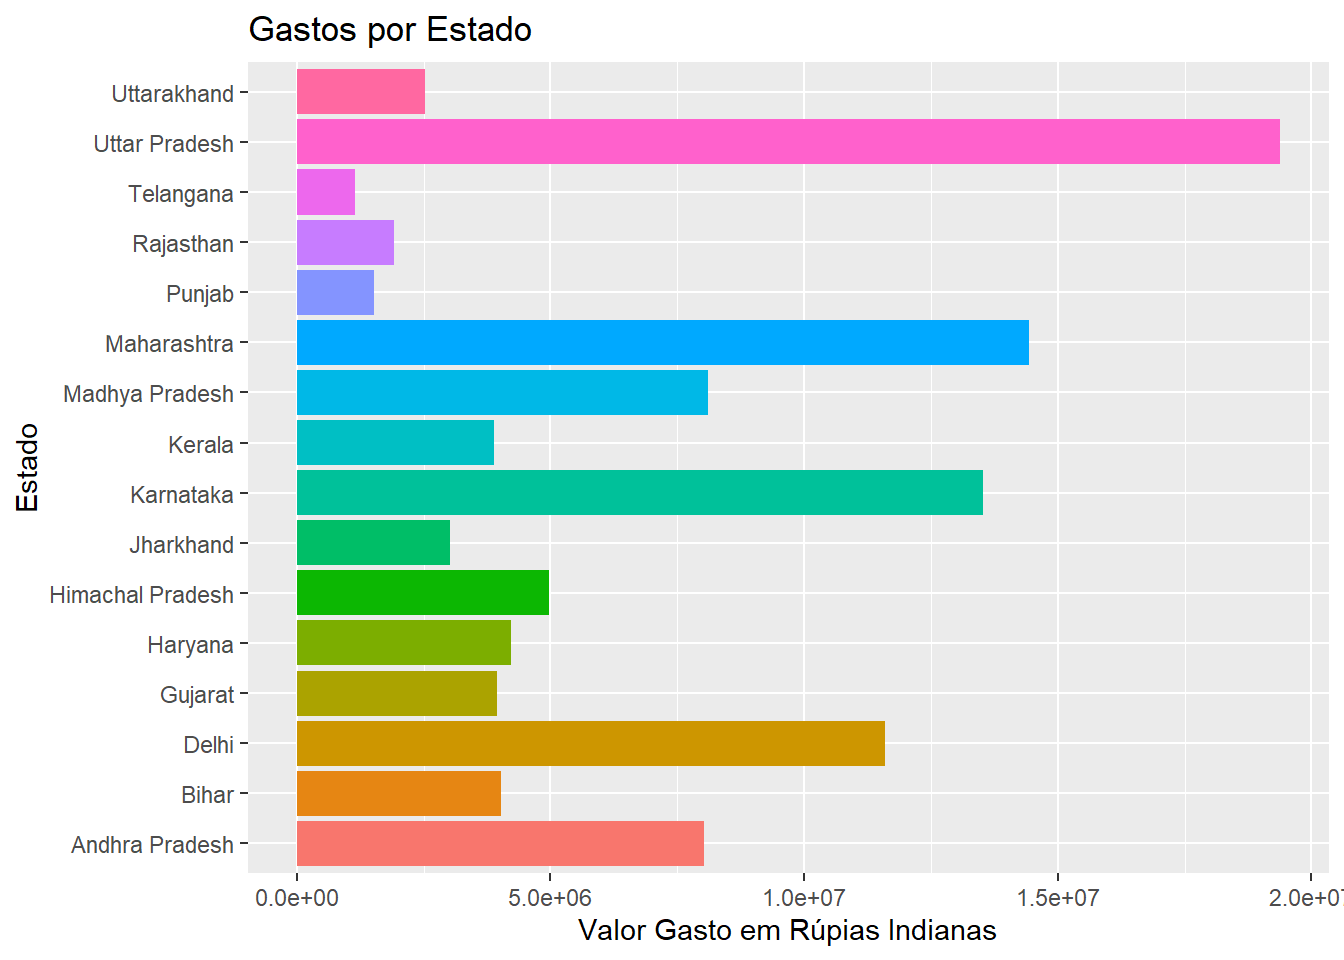
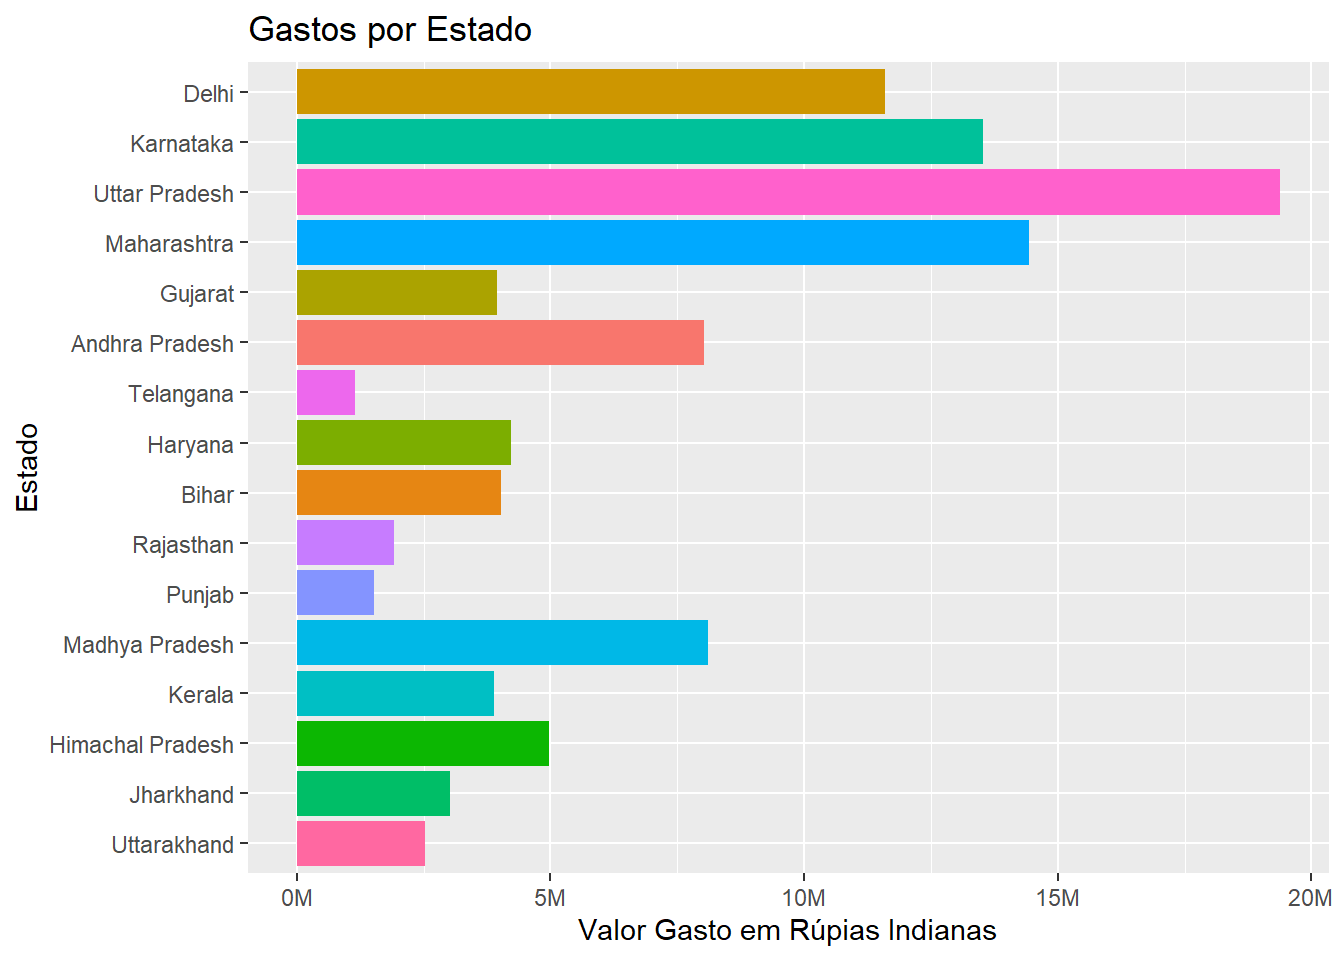
add a link to inct

diff --git a/docs/posts/20231114tidytuesday.html b/docs/posts/20231114tidytuesday.html
@@ -149,7 +149,8 @@ pre > code.sourceCode > span > a:first-child::before { text-decoration: underlin
     <h2 id="toc-title">Nesta página</h2>
    
   <ul>
-  <li><a href="#distribuição-de-idades-dos-clientes-por-gênero" id="toc-distribuição-de-idades-dos-clientes-por-gênero" class="nav-link active" data-scroll-target="#distribuição-de-idades-dos-clientes-por-gênero">Distribuição de Idades dos Clientes por gênero:</a></li>
+  <li><a href="#carregando-e-olhando-os-dados" id="toc-carregando-e-olhando-os-dados" class="nav-link active" data-scroll-target="#carregando-e-olhando-os-dados">Carregando e olhando os dados</a></li>
+  <li><a href="#distribuição-de-idades-dos-clientes-por-gênero" id="toc-distribuição-de-idades-dos-clientes-por-gênero" class="nav-link" data-scroll-target="#distribuição-de-idades-dos-clientes-por-gênero">Distribuição de Idades dos Clientes por gênero:</a></li>
   <li><a href="#distribuição-de-gastos-por-categoria-de-produto" id="toc-distribuição-de-gastos-por-categoria-de-produto" class="nav-link" data-scroll-target="#distribuição-de-gastos-por-categoria-de-produto">Distribuição de Gastos por Categoria de Produto:</a></li>
   <li><a href="#número-de-pedidos-por-zona" id="toc-número-de-pedidos-por-zona" class="nav-link" data-scroll-target="#número-de-pedidos-por-zona">Número de Pedidos por Zona:</a></li>
   <li><a href="#gastos-por-estado" id="toc-gastos-por-estado" class="nav-link" data-scroll-target="#gastos-por-estado">Gastos por Estado:</a></li>
@@ -200,6 +201,8 @@ pre > code.sourceCode > span > a:first-child::before { text-decoration: underlin
 
 </header>
 
+<section id="carregando-e-olhando-os-dados" class="level1">
+<h1>Carregando e olhando os dados</h1>
 <div class="cell">
 <details>
 <summary>Código</summary>
@@ -231,6 +234,7 @@ $ Orders           &lt;dbl&gt; 1, 3, 3, 2, 2, 1, 4, 1, 2, 4, 1, 2, 2, 4, 3, 2, 3
 $ Amount           &lt;dbl&gt; 23952.00, 23934.00, 23924.00, 23912.00, 23877.00, 238…</code></pre>
 </div>
 </div>
+</section>
 <section id="distribuição-de-idades-dos-clientes-por-gênero" class="level1">
 <h1>Distribuição de Idades dos Clientes por gênero:</h1>
 <div class="cell">
@@ -292,13 +296,14 @@ $ Amount           &lt;dbl&gt; 23952.00, 23934.00, 23924.00, 23912.00, 23877.00,
 <div class="cell">
 <details>
 <summary>Código</summary>
-<div class="sourceCode cell-code" id="cb6"><pre class="sourceCode r code-with-copy"><code class="sourceCode r"><span id="cb6-1"><a href="#cb6-1" aria-hidden="true" tabindex="-1"></a><span class="fu">ggplot</span>(data, <span class="fu">aes</span>(<span class="at">x =</span> State, <span class="at">y =</span> Amount, <span class="at">fill =</span> State)) <span class="sc">+</span></span>
-<span id="cb6-2"><a href="#cb6-2" aria-hidden="true" tabindex="-1"></a>  <span class="fu">geom_bar</span>(<span class="at">stat =</span> <span class="st">"identity"</span>, <span class="at">legend =</span> <span class="cn">FALSE</span>) <span class="sc">+</span></span>
+<div class="sourceCode cell-code" id="cb6"><pre class="sourceCode r code-with-copy"><code class="sourceCode r"><span id="cb6-1"><a href="#cb6-1" aria-hidden="true" tabindex="-1"></a><span class="fu">ggplot</span>(data, <span class="fu">aes</span>(<span class="at">x =</span> forcats<span class="sc">::</span><span class="fu">fct_reorder</span>(State, Amount, <span class="at">.na_rm =</span> <span class="cn">TRUE</span>), <span class="at">y =</span> Amount, <span class="at">fill =</span> State)) <span class="sc">+</span></span>
+<span id="cb6-2"><a href="#cb6-2" aria-hidden="true" tabindex="-1"></a>  <span class="fu">geom_bar</span>(<span class="at">stat =</span> <span class="st">"identity"</span>) <span class="sc">+</span></span>
 <span id="cb6-3"><a href="#cb6-3" aria-hidden="true" tabindex="-1"></a>  <span class="fu">labs</span>(<span class="at">title =</span> <span class="st">"Gastos por Estado"</span>,</span>
 <span id="cb6-4"><a href="#cb6-4" aria-hidden="true" tabindex="-1"></a>       <span class="at">x =</span> <span class="st">"Estado"</span>,</span>
 <span id="cb6-5"><a href="#cb6-5" aria-hidden="true" tabindex="-1"></a>       <span class="at">y =</span> <span class="st">"Valor Gasto em Rúpias Indianas"</span>) <span class="sc">+</span></span>
 <span id="cb6-6"><a href="#cb6-6" aria-hidden="true" tabindex="-1"></a>  <span class="fu">coord_flip</span>()<span class="sc">+</span></span>
-<span id="cb6-7"><a href="#cb6-7" aria-hidden="true" tabindex="-1"></a>    <span class="fu">guides</span>(<span class="at">fill =</span> <span class="st">"none"</span>)</span></code><button title="Copiar para a área de transferência" class="code-copy-button"><i class="bi"></i></button></pre></div>
+<span id="cb6-7"><a href="#cb6-7" aria-hidden="true" tabindex="-1"></a>    <span class="fu">guides</span>(<span class="at">fill =</span> <span class="st">"none"</span>)<span class="sc">+</span></span>
+<span id="cb6-8"><a href="#cb6-8" aria-hidden="true" tabindex="-1"></a>  <span class="fu">scale_y_continuous</span>(<span class="at">labels =</span> scales<span class="sc">::</span><span class="fu">label_number</span>(<span class="at">scale =</span> <span class="fl">1e-6</span>, <span class="at">suffix =</span> <span class="st">"M"</span>))</span></code><button title="Copiar para a área de transferência" class="code-copy-button"><i class="bi"></i></button></pre></div>
 </details>
 <div class="cell-output-display">
 <p><img src="20231114tidytuesday_files/figure-html/unnamed-chunk-5-1.png" class="img-fluid" width="672"></p>

diff --git a/docs/blog.html b/docs/blog.html
@@ -170,7 +170,7 @@ ul.task-list li input[type="checkbox"] {
 
 <div class="quarto-listing quarto-listing-container-default" id="listing-listing">
 <div class="list quarto-listing-default">
-<div class="quarto-post image-right" data-index="0" data-categories="code,analysis,Tidy Tuesday" data-listing-date-sort="1707620400000" data-listing-file-modified-sort="1700023637334" data-listing-date-modified-sort="NaN" data-listing-reading-time-sort="2">
+<div class="quarto-post image-right" data-index="0" data-categories="code,analysis,Tidy Tuesday" data-listing-date-sort="1707620400000" data-listing-file-modified-sort="1700023877580" data-listing-date-modified-sort="NaN" data-listing-reading-time-sort="3">
 <div class="thumbnail">
 <p><a href="./posts/20231114tidytuesday.html"> <p class="card-img-top"><img src="posts\20231114tidytuesday_files\figure-html\unnamed-chunk-2-1.png"  class="thumbnail-image card-img"/></p> </a></p>
 </div>
